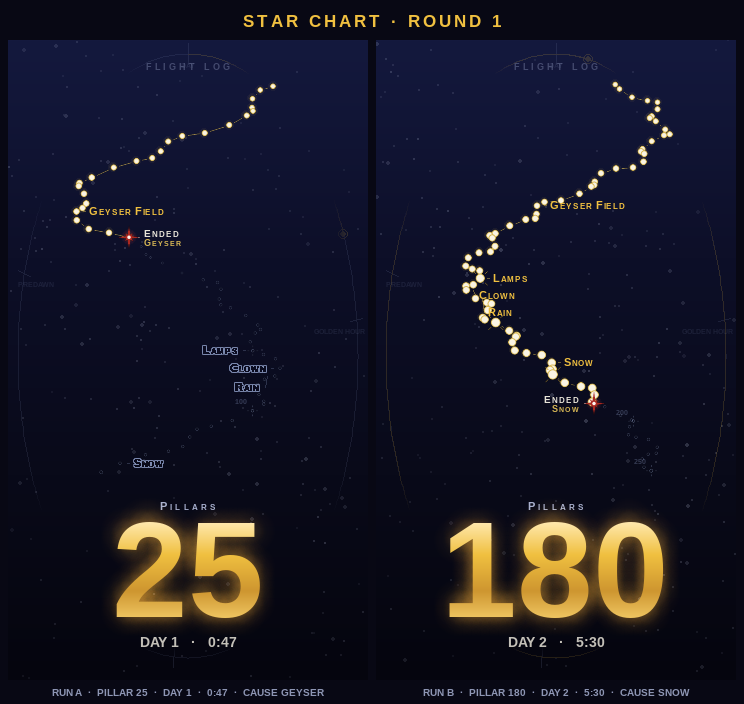
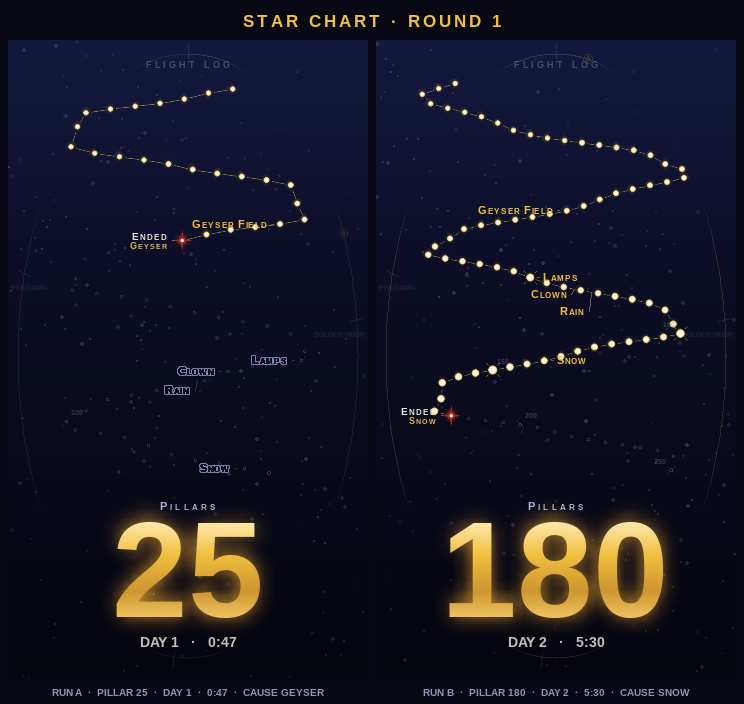
Flight Log star_chart — round 1
Claude-Session: https://claude.ai/code/session_01WbuBifdZt4BCNxLahVmLG9

diff --git a/tools/render_flight_log_star_chart.py b/tools/render_flight_log_star_chart.py
@@ -27,10 +27,10 @@ Five ideas carry it:
    path through them. No line means no promise.
 
 Scale rule: one star per pillar to 40, then one per five, with a brighter
-anchor every 50. That keeps a 25-pillar run and a 250-pillar chart at the
-same comfortable ~14px star spacing instead of letting a long run collapse
-into a solid bead of light. Note the compression is honest but non-linear:
-run A reached 25 of 139 charted pillars (18%) yet lights 41% of the plotted
+anchor every 50. That holds a 61-star chart at 24px per gap and a 83-star
+chart at 17px instead of letting a long run collapse into a solid bead of
+light. The compression is honest but non-linear, and worth stating: run A
+reached 25 of 140 charted pillars (18%) yet lights 41% of the plotted
 stars, because the far field is sampled five times coarser.
 
 The curve seed is the pillar count, so two runs genuinely chart as two
@@ -51,7 +51,7 @@ import pygame
 pygame.init()
 pygame.display.set_mode((1, 1))
 
-from game.draw import lerp_color, lerp_color_multi
+from game.draw import lerp_color_multi
 
 W, H = 360, 640
 SS = 4                      # chart layer supersample: 4 lets a 1px ring keep a hole
@@ -185,8 +185,8 @@ def is_anchor(pillar):
 
 # ── the seeded curve ─────────────────────────────────────────────────────────
 
-CURVE_LEN = 1330       # px of path the stars are strung along
-AMP_CAP = 133          # keeps the widest swing clear of the label gutters
+CURVE_LEN = 1450       # px of path the stars are strung along
+AMP_CAP = 126          # keeps the widest swing clear of the label gutters
 
 
 def curve_points(run, pillars):
@@ -206,10 +206,10 @@ def curve_points(run, pillars):
     changes direction star to star; a dotted rule does not.
     """
     rng = random.Random(run.pillars)
-    lobes = rng.uniform(4.8, 5.8)
+    lobes = rng.uniform(5.0, 5.9)
     ph = rng.uniform(0, math.tau)
     skew = rng.choice((-1, 1))
-    w1, f1, q1 = rng.uniform(6, 9), rng.uniform(44, 60), rng.uniform(0, math.tau)
+    w1, f1, q1 = rng.uniform(11, 15), rng.uniform(68, 88), rng.uniform(0, math.tau)
     w2, f2, q2 = rng.uniform(3, 5), rng.uniform(26, 38), rng.uniform(0, math.tau)
 
     def dense(amp):
@@ -421,10 +421,15 @@ def draw_phase_ring(surf, run):
     surf.blit(lay, (0, 0))
 
 
-def draw_phase_labels(surf, cartouche_rect):
+def draw_phase_labels(surf, keep_out):
     """Only the boundaries whose tick actually lands in the rim band get a
     word; the rest keep the hairline and lose the label. A leader out to a
-    tick hiding under the stencil would be a promise the ring can't keep."""
+    tick hiding under the stencil would be a promise the ring can't keep.
+
+    The offset runs ALONG the nearest edge, never away from it — pushing a
+    top-edge label inward would drop it straight onto the wordmark, and
+    pushing a bottom-edge one inward drops it onto the clock line.
+    """
     for frac, name in PHASE_BOUNDARIES:
         x, y = ring_pt(frac)
         if not (0 <= x < W and 0 <= y < H):
@@ -433,13 +438,17 @@ def draw_phase_labels(surf, cartouche_rect):
             continue
         img = font(7).render(name, True, COOL)
         img.set_alpha(38)
-        r = img.get_rect()
-        r.center = (int(x + (12 if x < CX else -12) * (0 if abs(y - RING_C[1]) > 240 else 1)),
-                    int(y + (11 if y < RING_C[1] else -11)))
-        r.clamp_ip(pygame.Rect(3, 3, W - 6, H - 6))
-        if r.colliderect(cartouche_rect):
-            continue
-        surf.blit(img, r)
+        vertical_edge = min(x, W - 1 - x) < min(y, H - 1 - y)
+        for sign in (1, -1):
+            r = img.get_rect()
+            if vertical_edge:
+                r.center = (int(x), int(y + sign * 14))
+            else:
+                r.center = (int(x + sign * (img.get_width() / 2 + 14)), int(y))
+            r.clamp_ip(pygame.Rect(3, 3, W - 6, H - 6))
+            if not any(r.colliderect(k) for k in keep_out):
+                surf.blit(img, r)
+                break
 
 
 # ── the chart ────────────────────────────────────────────────────────────────
@@ -454,7 +463,7 @@ def draw_chart(surf, run, pillars, pts, span):
         if not reached[i]:
             continue
         t = i / max(1, len(pts) - 1)
-        add_glow(surf, x, y, 6, GOLD, int(38 + 30 * t))
+        add_glow(surf, x, y, 6, GOLD, int(46 + 34 * t))
     dx, dy = pts[death_i]
     add_glow(surf, dx, dy, 9, SCARLET, 76)
 
@@ -490,8 +499,8 @@ def draw_chart(surf, run, pillars, pts, span):
             pygame.draw.circle(ss, (*STAR_WHITE, 255), (int(x * k), int(y * k)),
                                int((r - 1.0) * k))
             if anchor:
-                for a in range(4):
-                    th = math.radians(a * 90 + 45)
+                for q in range(4):
+                    th = math.radians(q * 90 + 45)
                     c0, c1 = r + 1.4, r + 5.2
                     pygame.draw.line(ss, (*GOLD, 210),
                                      P((x + math.cos(th) * c0, y + math.sin(th) * c0)),
@@ -499,13 +508,18 @@ def draw_chart(surf, run, pillars, pts, span):
         else:
             t = i / max(1, len(pts) - 1)
             r = 1.5 + 0.5 * t                      # stays <= 2px, still ramps
-            a = int(78 + 62 * t) + (58 if anchor else 0)
+            # Authored high because the stroke is 3/4 of an output pixel wide
+            # after the downscale, so it lands at roughly three-quarters of
+            # whatever alpha is asked for here.
+            a = int(112 + 78 * t) + (58 if anchor else 0)
             pygame.draw.circle(ss, (*COOL, min(255, a)), (int(x * k), int(y * k)),
                                int(r * k), k - 1)
+            # Same four-tick anchor mark as a lit anchor, so the every-50
+            # rhythm survives the crossing from flown sky into empty sky.
             if anchor:
-                for ax in range(4):
-                    th = math.radians(ax * 90)
-                    c0, c1 = r + 1.6, r + 3.6
+                for q in range(4):
+                    th = math.radians(q * 90 + 45)
+                    c0, c1 = r + 1.6, r + 3.8
                     pygame.draw.line(ss, (*COOL, 150),
                                      P((x + math.cos(th) * c0, y + math.sin(th) * c0)),
                                      P((x + math.cos(th) * c1, y + math.sin(th) * c1)), k - 1)
@@ -599,7 +613,8 @@ def place_labels(surf, run, pillars, pts, death_i):
         placed.append(rect)
         surf.blit(img, rect)
 
-    draw_death_callout(surf, run, pts, death_i, placed)
+    placed.append(draw_death_callout(surf, run, pts, death_i, placed))
+    return placed
 
 
 def draw_death_callout(surf, run, pts, death_i, placed):
@@ -635,6 +650,7 @@ def draw_death_callout(surf, run, pts, death_i, placed):
     surf.blit(l1, (box.left if right else box.right - l1.get_width(), box.top))
     surf.blit(l2, (box.left if right else box.right - l2.get_width(),
                    box.top + l1.get_height() - 2))
+    return box
 
 
 # ── cartouche ────────────────────────────────────────────────────────────────
@@ -711,16 +727,18 @@ def render_panel(run):
     pillars, span = chart_pillars(run)
     pts = curve_points(run, pillars)
     death_i = draw_chart(surf, run, pillars, pts, span)
-    place_labels(surf, run, pillars, pts, death_i)
+    placed = place_labels(surf, run, pillars, pts, death_i)
 
     cart = draw_cartouche(surf, run)
-    draw_phase_labels(surf, cart)
 
     wordmark = font(9).render("F L I G H T   L O G", True, (150, 160, 196))
     wordmark.set_alpha(96)
-    surf.blit(wordmark, wordmark.get_rect(center=(CX, 26)))
+    wrect = wordmark.get_rect(center=(CX, 24))
+    surf.blit(wordmark, wrect)
 
-    return surf, pts, death_i, pillars, span
+    draw_phase_labels(surf, (cart, wrect.inflate(10, 6)))
+
+    return surf, pts, death_i, pillars, span, placed, cart
 
 
 # ── sheet ────────────────────────────────────────────────────────────────────
@@ -773,7 +791,7 @@ def main():
 
     panels, captions = [], []
     for run in (RUN_A, RUN_B):
-        surf, pts, death_i, pillars, span = render_panel(run)
+        surf, pts, death_i, pillars, span, placed, cart = render_panel(run)
         panels.append(surf)
         reached = sum(1 for p in pillars if p <= run.pillars)
         captions.append(f"{run.tag}  ·  PILLAR {run.pillars}  ·  DAY {run.day}  ·  "
@@ -787,8 +805,14 @@ def main():
               f"({sc[0]},{sc[1]})-({sc[2]},{sc[3]})  "
               f"= {sc[2] - sc[0] + 1}x{sc[3] - sc[1] + 1}px")
         print(f"        sky top {surf.get_at((4, 2))[:3]}   "
-              f"sky bottom {surf.get_at((4, 637))[:3]}   "
-              f"numeral core {surf.get_at((CX, 530))[:3]}")
+              f"sky bottom {surf.get_at((4, 637))[:3]}")
+
+        clash = [(a, b) for i, a in enumerate(placed) for b in placed[i + 1:]
+                 if a.colliderect(b)]
+        off = [r for r in placed if not pygame.Rect(0, 0, W, H).contains(r)]
+        over_cart = [r for r in placed if r.colliderect(cart)]
+        print(f"        labels: {len(placed)} placed, {len(clash)} overlapping, "
+              f"{len(off)} off-canvas, {len(over_cart)} touching the cartouche")
 
     sheet = render_sheet(panels, captions)
     path = os.path.join(out_dir, "round_1.png")
